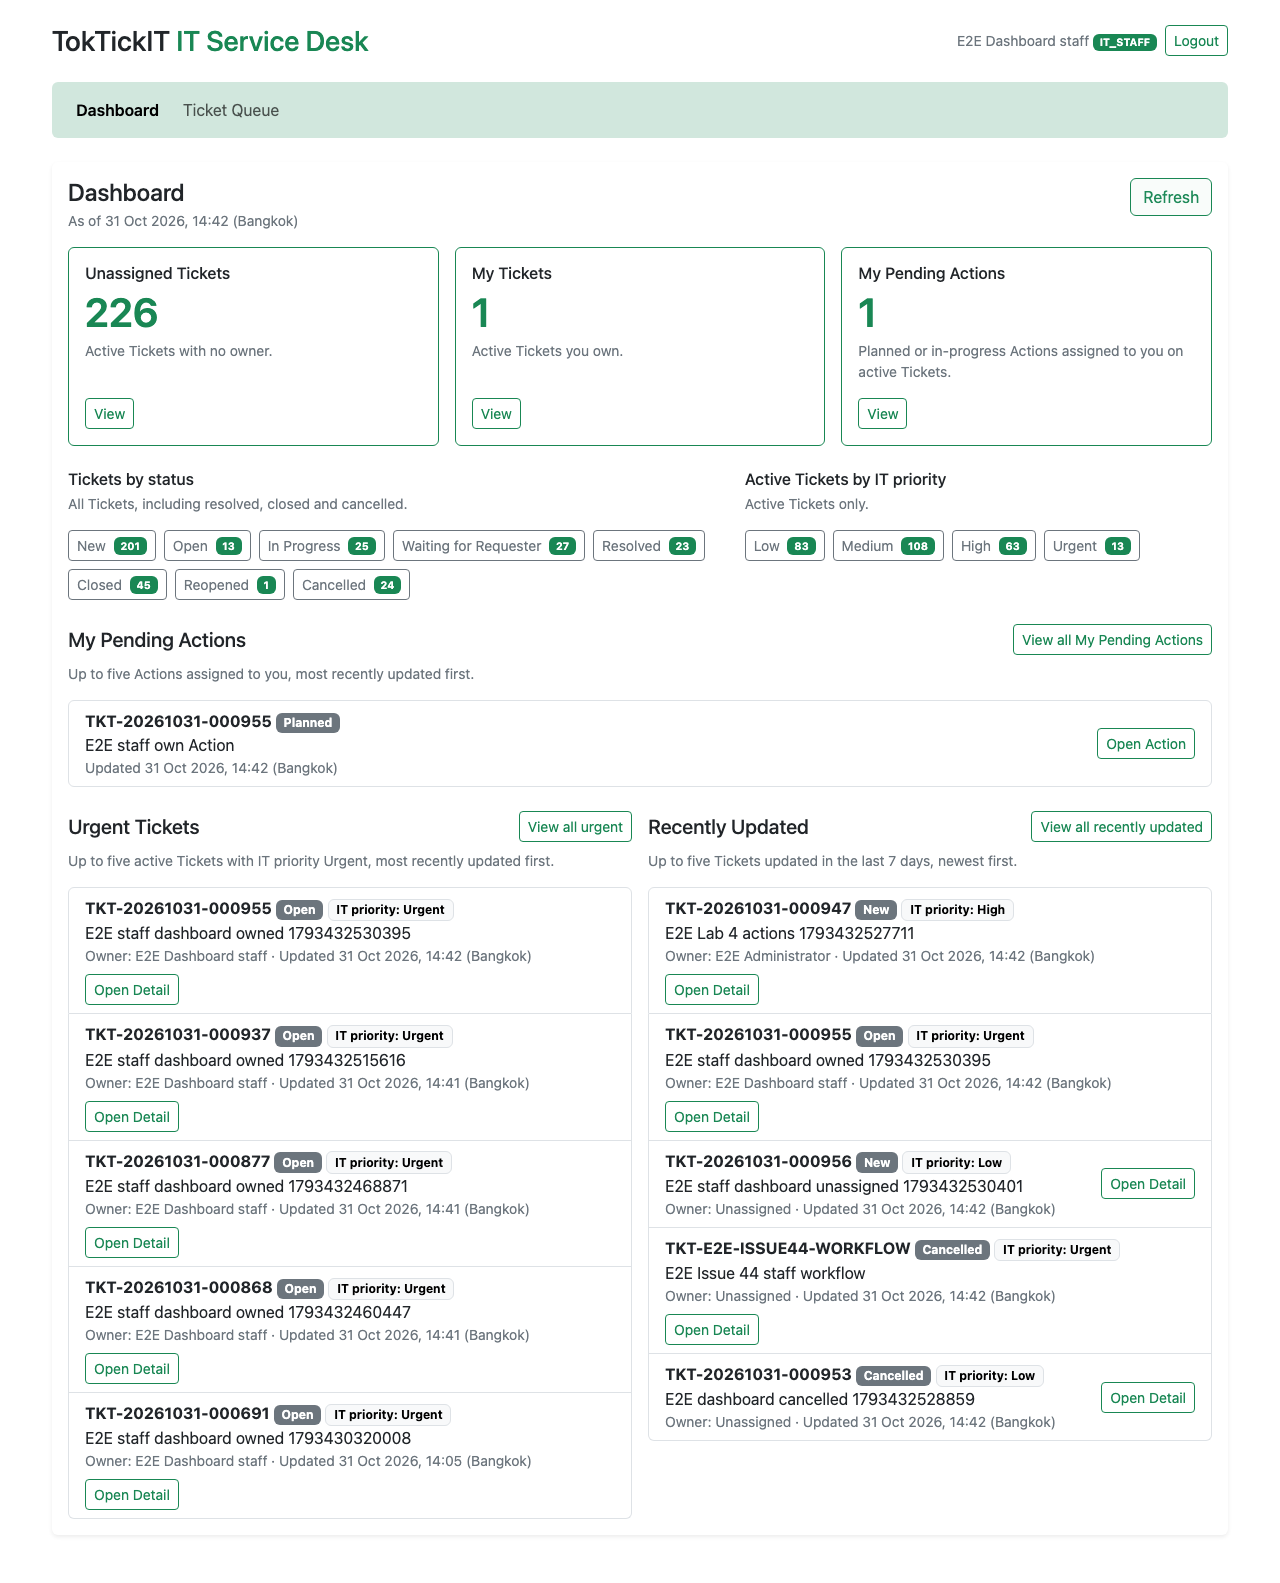
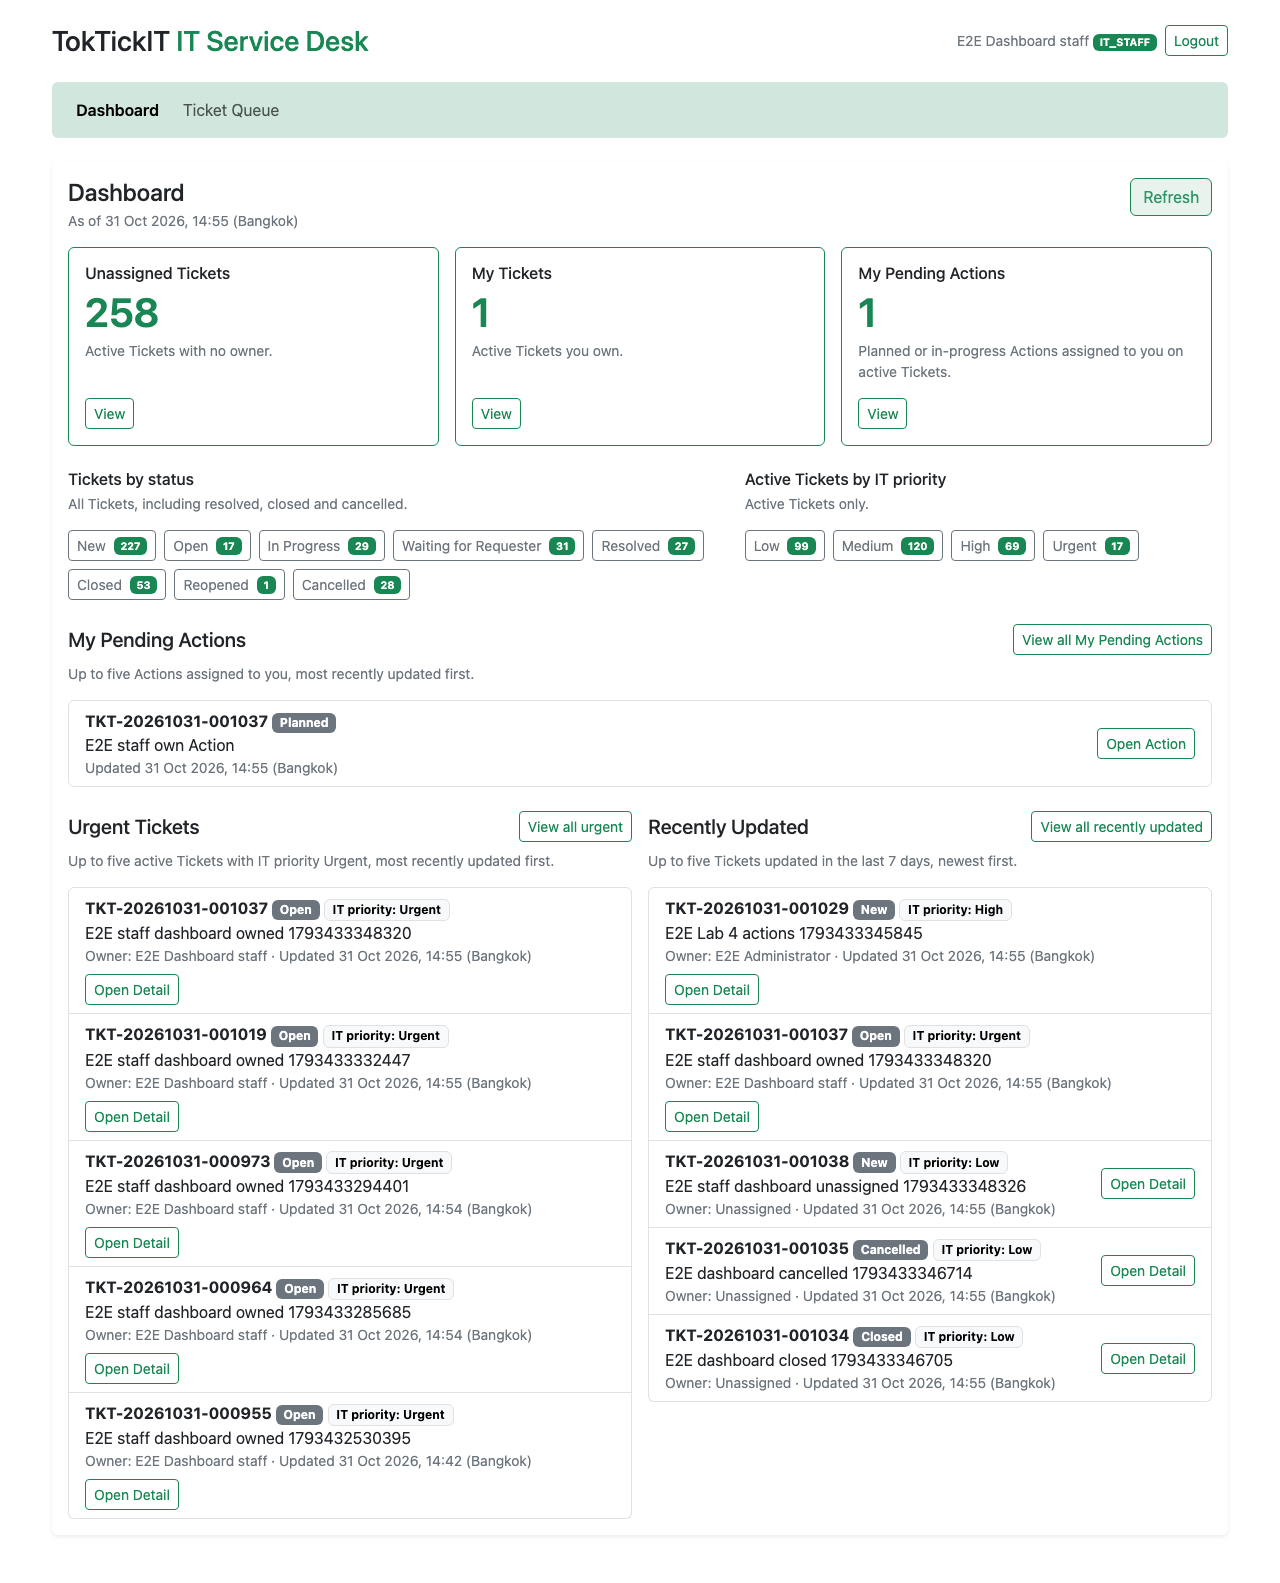
Address review: reload the last page when My Pending Actions empties, all buckets vs SQL
- A remembered page that is now empty (its last Action finished) reloads
  the last page that still exists instead of showing an empty list.
- E2E-03 compares every Staff metric, all 8 status and 4 IT-priority
  buckets included, with the SQL reading.

diff --git a/e2e/lab-04/dashboards.spec.ts b/e2e/lab-04/dashboards.spec.ts
@@ -159,7 +159,15 @@ async function staffReference(userId: number) {
       (SELECT COUNT(*) FROM "ActionTaken" a JOIN "Ticket" t ON t.id = a."ticketId" WHERE a."assigneeId" = ${userId}
         AND a.status IN ('PLANNED','IN_PROGRESS') AND t."currentStatus" IN ('NEW','OPEN','IN_PROGRESS','WAITING_FOR_REQUESTER','REOPENED')) AS actions
     FROM "Ticket"`;
-  return { unassignedTickets: Number(row.unassigned), myTickets: Number(row.mine), myActions: Number(row.actions) };
+  const byStatus = await prisma.$queryRaw<Array<{ key: string; n: bigint }>>`SELECT "currentStatus"::text AS key, COUNT(*) AS n FROM "Ticket" GROUP BY 1`;
+  const byPriority = await prisma.$queryRaw<Array<{ key: string; n: bigint }>>`
+    SELECT "itPriority"::text AS key, COUNT(*) AS n FROM "Ticket" WHERE "currentStatus" IN ('NEW','OPEN','IN_PROGRESS','WAITING_FOR_REQUESTER','REOPENED') GROUP BY 1`;
+  const bucket = (keys: string[], rows: Array<{ key: string; n: bigint }>) => Object.fromEntries(keys.map((key) => [key, Number(rows.find((r) => r.key === key)?.n ?? 0)]));
+  return {
+    unassignedTickets: Number(row.unassigned), myTickets: Number(row.mine), myActions: Number(row.actions),
+    byStatus: bucket(["NEW", "OPEN", "IN_PROGRESS", "WAITING_FOR_REQUESTER", "RESOLVED", "CLOSED", "REOPENED", "CANCELLED"], byStatus),
+    byItPriority: bucket(["LOW", "MEDIUM", "HIGH", "URGENT"], byPriority),
+  };
 }
 
 async function staffDashboardMatchesDatabase(page: Page, userId: number) {
@@ -171,8 +179,8 @@ async function staffDashboardMatchesDatabase(page: Page, userId: number) {
     await page.getByRole("button", { name: "Refresh" }).click();
     const snapshot = await (await reloaded).json();
     const after = await staffReference(userId);
-    const shown = { unassignedTickets: snapshot.metrics.unassignedTickets, myTickets: snapshot.metrics.myTickets, myActions: snapshot.metrics.myActions };
-    if (JSON.stringify(before) === JSON.stringify(after) && JSON.stringify(shown) === JSON.stringify(before)) return snapshot;
+    // Every metric, all 12 buckets included, must equal the SQL reading.
+    if (JSON.stringify(before) === JSON.stringify(after) && JSON.stringify(snapshot.metrics) === JSON.stringify(before)) return snapshot;
   }
   throw new Error("Staff Dashboard never matched the database");
 }
@@ -242,6 +250,8 @@ test("E2E-03 Staff and Administrator Dashboards match the database, drill down e
   expect(snapshot.urgentTickets.map((item: { id: number }) => item.id)).toContain(tickets[0].id);
   await expect(cardValue(page, "Unassigned Tickets")).toHaveText(String(snapshot.metrics.unassignedTickets));
   await expect(cardValue(page, "My Tickets")).toHaveText("1");
+  await expect(page.getByRole("button", { name: `Closed: ${snapshot.metrics.byStatus.CLOSED} Tickets, view in the Ticket Queue` })).toBeVisible();
+  await expect(page.getByRole("button", { name: `Urgent: ${snapshot.metrics.byItPriority.URGENT} active Tickets, view in the Ticket Queue` })).toBeVisible();
 
   for (const { label, width, height } of [{ label: "desktop", width: 1280, height: 900 }, { label: "tablet", width: 820, height: 1000 }, { label: "mobile", width: 390, height: 844 }]) {
     await page.setViewportSize({ width, height });

diff --git a/client/tests/lab-04/StaffDashboard.test.tsx b/client/tests/lab-04/StaffDashboard.test.tsx
@@ -168,6 +168,18 @@ describe("My Pending Actions list (UI-06 paging)", () => {
     await waitFor(() => expect(api.getMyPendingActions).toHaveBeenLastCalledWith(2));
   });
 
+  it("moves back to the last page that exists when the remembered page has emptied", async () => {
+    const load = vi.spyOn(api, "getMyPendingActions")
+      .mockResolvedValueOnce({ items: [], pagination: { page: 2, pageSize: 10, totalItems: 10, totalPages: 1 } })
+      .mockResolvedValueOnce({ items: [item(1)], pagination: { page: 1, pageSize: 10, totalItems: 10, totalPages: 1 } });
+    const onPageChange = vi.fn();
+    render(<MyPendingActions page={2} onPageChange={onPageChange} onBack={vi.fn()} onOpenAction={vi.fn()} onSessionExpired={vi.fn()} />);
+    expect(await screen.findByText("Action 1")).toBeInTheDocument();
+    expect(load.mock.calls.map(([page]) => page)).toEqual([2, 1]);
+    expect(onPageChange).toHaveBeenLastCalledWith(1);
+    expect(screen.queryByText("No pending Actions assigned to you.")).not.toBeInTheDocument();
+  });
+
   it("shows the empty message", async () => {
     vi.spyOn(api, "getMyPendingActions").mockResolvedValue({ items: [], pagination: { page: 1, pageSize: 10, totalItems: 0, totalPages: 0 } });
     render(<MyPendingActions page={1} onPageChange={vi.fn()} onBack={vi.fn()} onOpenAction={vi.fn()} onSessionExpired={vi.fn()} />);

diff --git a/client/src/MyPendingActions.tsx b/client/src/MyPendingActions.tsx
@@ -26,6 +26,9 @@ export default function MyPendingActions({ page, onPageChange, onBack, onOpenAct
     try {
       const loaded = await getMyPendingActions(target);
       if (current !== sequence.current) return;
+      // The page emptied while away (e.g. its last Action was finished): show the last page that still exists.
+      const lastPage = Math.max(1, loaded.pagination.totalPages);
+      if (loaded.items.length === 0 && target > lastPage) return void load(lastPage);
       setResult(loaded);
       setState("success");
       onPageChange(loaded.pagination.page);

diff --git a/docs/lab-04/tests.md b/docs/lab-04/tests.md
@@ -74,7 +74,7 @@ implementation Issues. All IDs are local to Lab 4; none is an executed result.
 | A11Y-01 | Accessibility | AC-20 | Keyboard activation, labels/focus/skip/active-nav/error announcements, cancel dialog trap/return focus | `e2e/lab-04/accessibility.spec.ts` | Planned |
 | E2E-01 | E2E | AC-01, AC-03, AC-04, AC-05, AC-06 | Different Staff Actions on one Ticket, assign/edit/start/complete/cancel/history and Requester visibility/isolation | `e2e/lab-04/actions-taken-flow.spec.ts` | Pass |
 | E2E-02 | E2E | AC-07, AC-08, AC-09 | Record ordered work, failed gate, settled follow-up, resolve/close/reopen/cancel and shared history | `e2e/lab-04/ticket-resolution.spec.ts` | Planned |
-| E2E-03 | E2E | AC-14, AC-15, AC-16, AC-17 | Three roles' owned/operational metrics, myActions, zero/failure states, every card/list drill-down and matching DB queries | `e2e/lab-04/dashboards.spec.ts` | Partial: all three roles' metrics vs database; every Requester card and View all; every Staff card, all 8 status and 4 IT-priority buckets, View all urgent/recent and My Pending Actions; Open Detail/Open Action, isolation and zero Requester pass (#70, #71). Failure states are covered by UI-05/UI-06; E2E failure injection in #72 |
+| E2E-03 | E2E | AC-14, AC-15, AC-16, AC-17 | Three roles' owned/operational metrics, myActions, zero/failure states, every card/list drill-down and matching DB queries | `e2e/lab-04/dashboards.spec.ts` | Partial: all three roles' metrics vs database (Staff: all cards and all 12 buckets); every Requester card and View all; every Staff card, all 8 status and 4 IT-priority buckets, View all urgent/recent and My Pending Actions; Open Detail/Open Action, isolation and zero Requester pass (#70, #71). Failure states are covered by UI-05/UI-06; E2E failure injection in #72 |
 | REG-01 | Regression | AC-21 | Run all existing Lab 1-3 server/client checks plus preserved root E2E projects; independently assert critical security/business behavior | Existing `server/tests/lab-01/`, `server/tests/lab-02/`, `server/tests/lab-03/`, `client/tests/lab-01/`, `client/tests/lab-02/`, `client/tests/lab-03/`, `e2e/lab-02/`, `e2e/lab-03/` | Planned |
 | E2E-04 | E2E regression | AC-21 | Auth/password/logout, tickets/attachments/comments, queue/owner/priority/notes and Admin safety all remain functional | `e2e/lab-04/regression.spec.ts` | Planned |
 | PERF-01 | Performance-smoke | AC-22 | 10,000 Tickets/30,000 Actions, <=12 data SQL statements/request, no N+1, <=32KiB body, warm 5-run median<=1s and max<=2s | `server/tests/lab-04/dashboard-performance.test.ts` | Planned |
